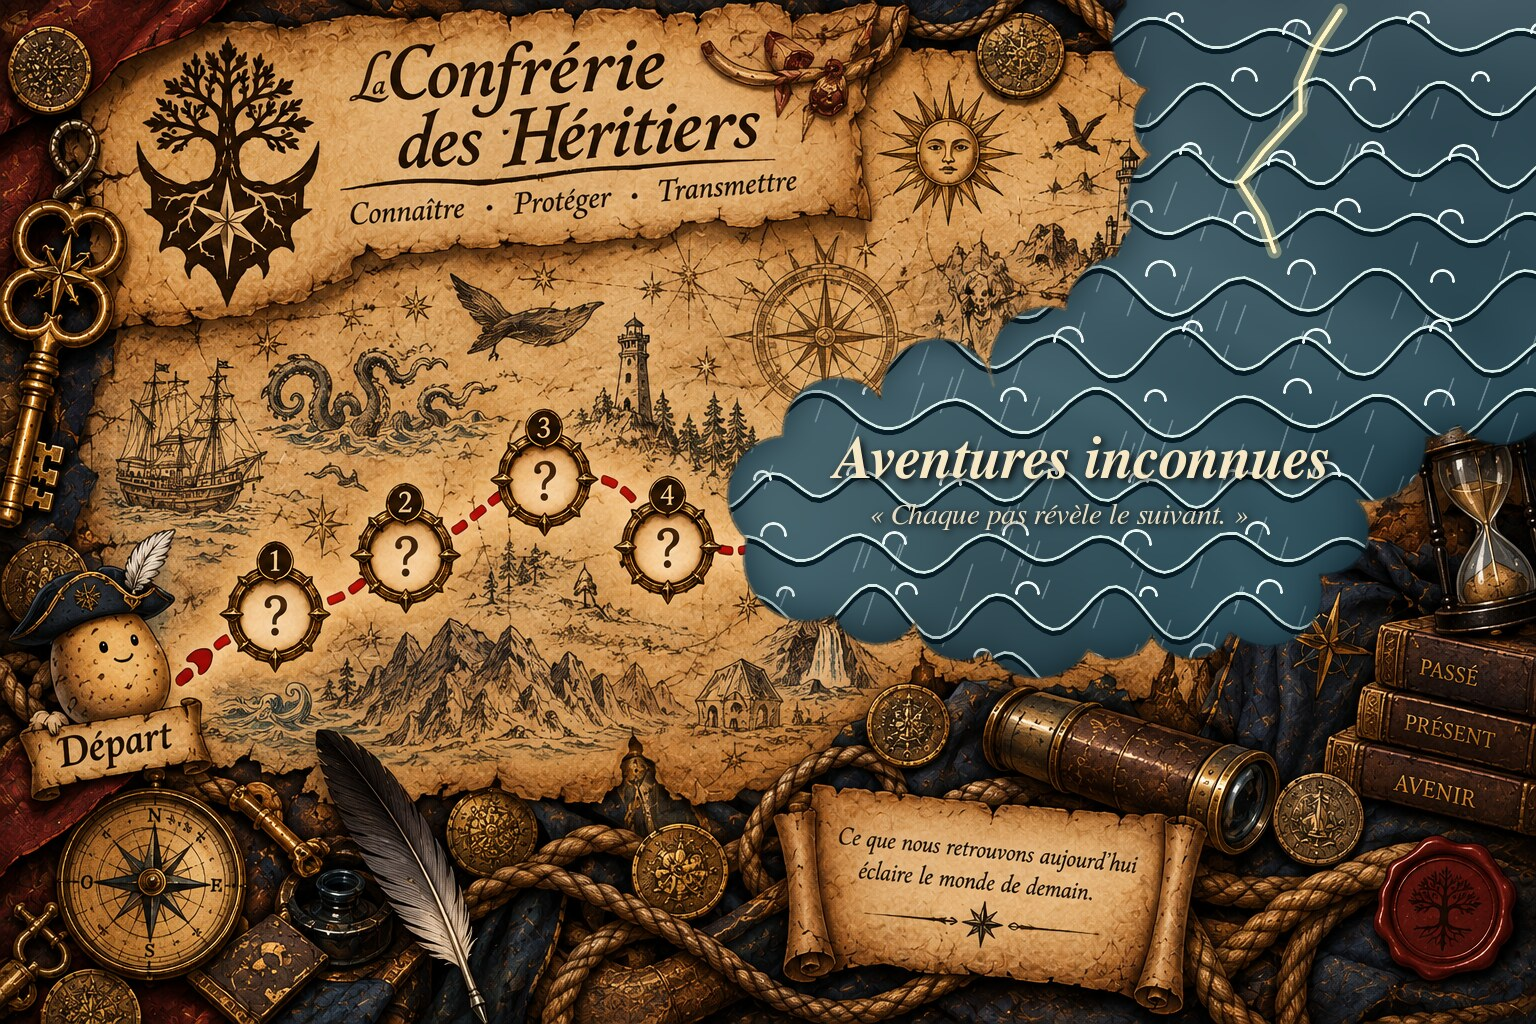
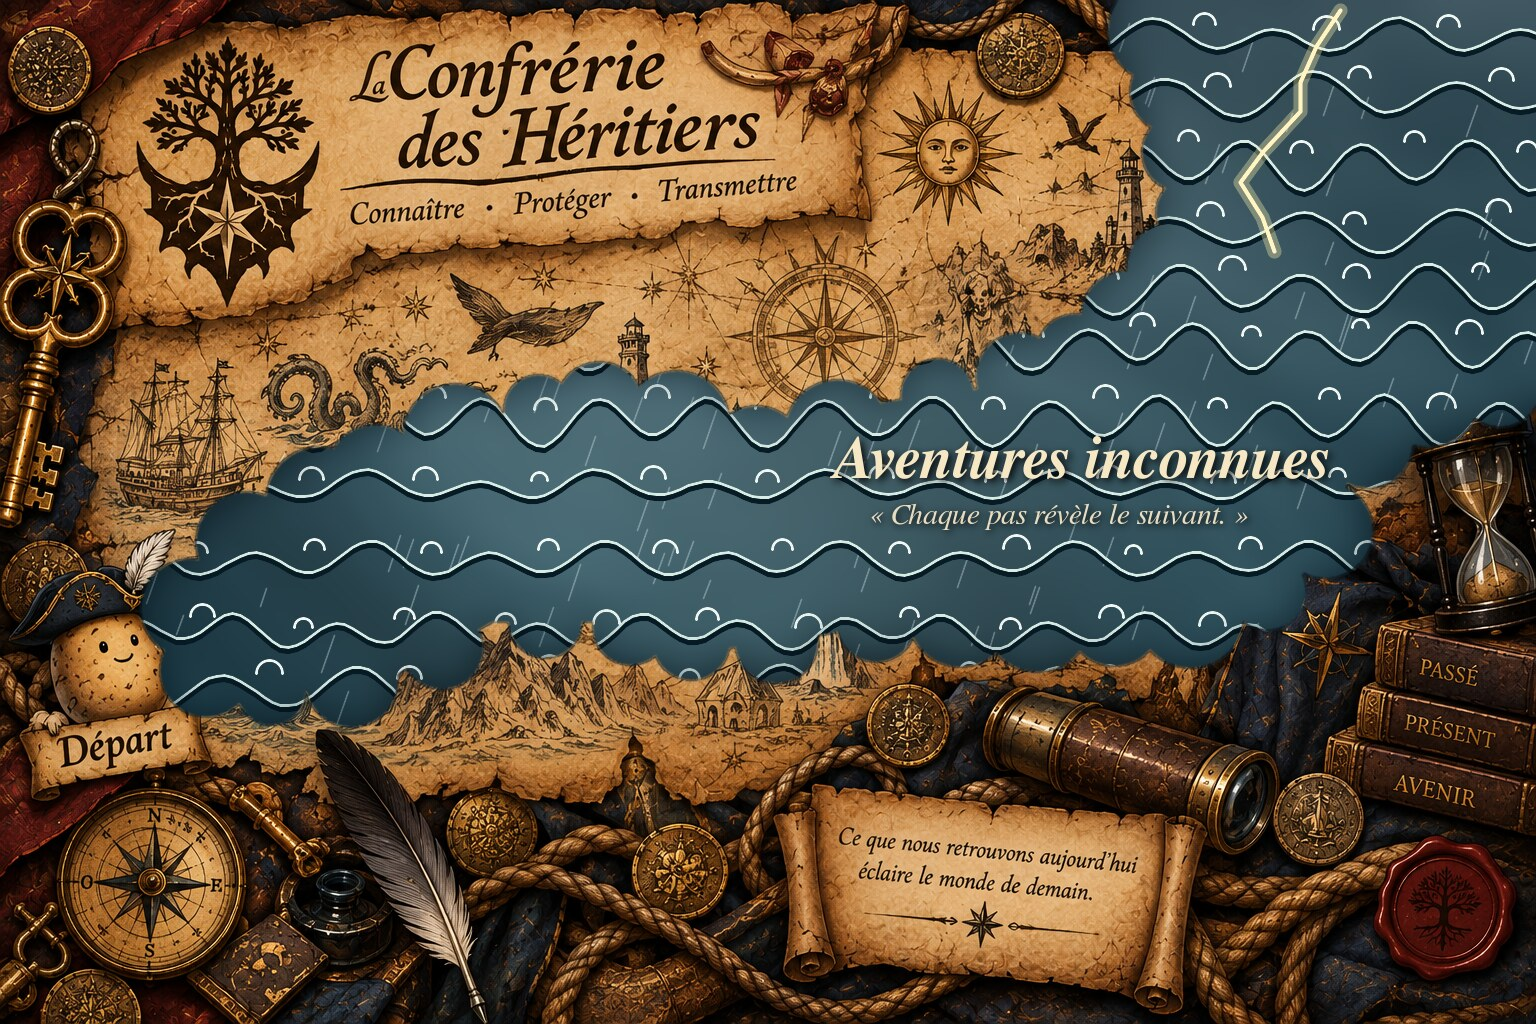
feat(quetes): une grande tempête couvre tout le chemin des quêtes
- la mer en tempête s'étend sur tout le chemin, du départ aux aventures
  inconnues ; les dessins autour restent visibles
- un anneau doré marque chaque quête existante ; le toucher ouvre un
  trou dans la tempête qui dévoile la carte et la quête
- registre : icône d'orage pour les quêtes encore cachées

Claude-Session: https://claude.ai/code/session_01LK9bQxRaFjmebgi5wGVUS1

Changed region(s): [[0.0938, 0.0, 1.0, 0.7188], [0.9062, 0.0, 0.9375, 0.0312], [0.8438, 0.0, 0.875, 0.0312]]

diff --git a/frontend/app/(tabs)/quetes.tsx b/frontend/app/(tabs)/quetes.tsx
@@ -26,12 +26,10 @@ const COMPLETED_QUEST_IMAGE = require('../../quêtes/toutes les quêtes/quête c
 const ANCIENT_MESSAGE_IMAGE = require('../../assets/images/journal/le message des anciens.png');
 const FORGERON_EXPLAINED_IMAGE = require('../../quêtes/toutes les quêtes/La_Forge_des_Anciens.png');
 
-// Emplacement sur la carte du médaillon de la prochaine quête
-const NEXT_QUEST_SPOT = { x: 0.433, y: 0.533 };
 
-// Petit nuage qui cache une quête pas encore dévoilée (240 x 200)
-const COVER_IMAGE = require('../../assets/images/quetes/nuage.png');
-const COVER_ASPECT = 240 / 200;
+// Carte d'origine, sans la tempête : visible à travers la tempête autour
+// des quêtes dévoilées
+const CLEAR_MAP_IMAGE = require('../../quêtes/image de quêtes.png');
 
 // Mémorise sur l'appareil les quêtes déjà dévoilées
 const seenKey = (number: number) => `quetes.vue.${number}`;
@@ -82,76 +80,57 @@ const QUESTS: Quest[] = [
   },
 ];
 
+const MAP_ASPECT = 1536 / 1024;
 const MEDALLION_SIZE = 0.074; // diamètre de l'anneau, en fraction de la largeur de la carte
 const EMBLEM_SIZE = 0.05; // diamètre de l'illustration posée sur le médaillon
 
-// Médaillon « ? » de la prochaine quête : il brille doucement
-function NextQuestMarker({ size, x, y }: { size: number; x: number; y: number }) {
-  const glow = useRef(new Animated.Value(0)).current;
+// Trou dans la tempête autour d'une quête dévoilée : on y revoit la carte
+function StormHole({
+  mapWidth,
+  mapHeight,
+  x,
+  y,
+  size,
+}: {
+  mapWidth: number;
+  mapHeight: number;
+  x: number;
+  y: number;
+  size: number;
+}) {
+  const opacity = useRef(new Animated.Value(0)).current;
 
   useEffect(() => {
-    const loop = Animated.loop(
-      Animated.sequence([
-        Animated.timing(glow, { toValue: 1, duration: 1200, useNativeDriver: true }),
-        Animated.timing(glow, { toValue: 0, duration: 1200, useNativeDriver: true }),
-      ])
-    );
-    loop.start();
-    return () => loop.stop();
-  }, [glow]);
+    Animated.timing(opacity, { toValue: 1, duration: 800, useNativeDriver: true }).start();
+  }, [opacity]);
 
   return (
     <Animated.View
       pointerEvents="none"
-      testID="quest-next-marker"
       style={[
-        styles.ring,
-        styles.nextRing,
+        styles.hole,
         {
           width: size,
           height: size,
           borderRadius: size / 2,
-          left: `${x * 100}%`,
-          top: `${y * 100}%`,
-          opacity: glow.interpolate({ inputRange: [0, 1], outputRange: [0.45, 1] }),
-          transform: [
-            { translateX: -size / 2 },
-            { translateY: -size / 2 },
-            { scale: glow.interpolate({ inputRange: [0, 1], outputRange: [0.92, 1.08] }) },
-          ],
+          left: x * mapWidth - size / 2,
+          top: y * mapHeight - size / 2,
+          opacity,
+          transform: [{ scale: opacity.interpolate({ inputRange: [0, 1], outputRange: [0.3, 1] }) }],
         },
       ]}
-    />
-  );
-}
-
-// Nuage posé sur un médaillon ; il s'envole quand la quête est dévoilée
-function MedallionCover({ size, visible }: { size: number; visible: boolean }) {
-  const opacity = useRef(new Animated.Value(visible ? 1 : 0)).current;
-
-  useEffect(() => {
-    Animated.timing(opacity, {
-      toValue: visible ? 1 : 0,
-      duration: 700,
-      useNativeDriver: true,
-    }).start();
-  }, [visible, opacity]);
-
-  return (
-    <Animated.View
-      pointerEvents="none"
-      style={{
-        position: 'absolute',
-        width: size * COVER_ASPECT,
-        height: size,
-        opacity,
-        transform: [
-          { translateY: opacity.interpolate({ inputRange: [0, 1], outputRange: [-size * 0.6, 0] }) },
-          { scale: opacity.interpolate({ inputRange: [0, 1], outputRange: [1.3, 1] }) },
-        ],
-      }}
     >
-      <Image source={COVER_IMAGE} style={{ width: size * COVER_ASPECT, height: size }} contentFit="contain" />
+      <Image
+        source={CLEAR_MAP_IMAGE}
+        style={{
+          position: 'absolute',
+          width: mapWidth,
+          height: mapHeight,
+          left: -(x * mapWidth - size / 2),
+          top: -(y * mapHeight - size / 2),
+        }}
+        contentFit="cover"
+      />
     </Animated.View>
   );
 }
@@ -208,6 +187,19 @@ export default function QuetesScreen() {
         >
           <Image source={MAIN_QUESTS_IMAGE} style={styles.image} contentFit="contain" />
 
+          {/* Trous dans la tempête autour des quêtes dévoilées */}
+          {mapWidth > 0 &&
+            QUESTS.filter(isRevealed).map((quest) => (
+              <StormHole
+                key={`hole-${quest.number}`}
+                mapWidth={mapWidth}
+                mapHeight={mapWidth / MAP_ASPECT}
+                x={quest.x}
+                y={quest.y}
+                size={ringSize * 1.9}
+              />
+            ))}
+
           {/* Anneau doré sur les médaillons des quêtes disponibles */}
           {mapWidth > 0 &&
             QUESTS.map((quest) => (
@@ -250,30 +242,10 @@ export default function QuetesScreen() {
                     transition={300}
                   />
                 )}
-                <MedallionCover size={ringSize * 1.25} visible={!isRevealed(quest)} />
               </Pressable>
             ))}
 
-          {mapWidth > 0 && (
-            <>
-              <View
-                pointerEvents="none"
-                style={{
-                  position: 'absolute',
-                  alignItems: 'center',
-                  justifyContent: 'center',
-                  width: ringSize,
-                  height: ringSize,
-                  left: `${NEXT_QUEST_SPOT.x * 100}%`,
-                  top: `${NEXT_QUEST_SPOT.y * 100}%`,
-                  transform: [{ translateX: -ringSize / 2 }, { translateY: -ringSize / 2 }],
-                }}
-              >
-                <MedallionCover size={ringSize * 1.25} visible />
-              </View>
-              <NextQuestMarker size={ringSize} x={NEXT_QUEST_SPOT.x} y={NEXT_QUEST_SPOT.y} />
-            </>
-          )}
+
         </View>
 
         {/* Registre des quêtes, lisible sur mobile */}
@@ -293,7 +265,9 @@ export default function QuetesScreen() {
               style={({ pressed }) => [styles.row, pressed && { opacity: 0.8 }]}
             >
               {!isRevealed(quest) ? (
-                <Image source={COVER_IMAGE} style={styles.rowEmblem} contentFit="contain" />
+                <View style={[styles.badge, styles.badgeStorm]}>
+                  <MaterialCommunityIcons name="weather-lightning-rainy" size={22} color="#cfe6ee" />
+                </View>
               ) : (
                 <View>
                   <Image source={quest.emblem} style={styles.rowEmblem} contentFit="cover" />
@@ -380,11 +354,6 @@ const styles = StyleSheet.create({
     width: '100%',
     height: '100%',
     borderRadius: 20,
-  },
-  nextRing: {
-    borderColor: '#FFE3A0',
-    backgroundColor: 'rgba(255, 227, 160, 0.18)',
-    shadowRadius: 12,
   },
   ring: {
     position: 'absolute',
@@ -479,6 +448,16 @@ const styles = StyleSheet.create({
     backgroundColor: '#2C221C',
     borderWidth: 2,
     borderColor: colors.brandPrimary,
+  },
+  badgeStorm: {
+    backgroundColor: '#24414d',
+    borderColor: '#6f95a3',
+  },
+  hole: {
+    position: 'absolute',
+    overflow: 'hidden',
+    borderWidth: 2,
+    borderColor: 'rgba(8, 28, 38, 0.8)',
   },
   badgeLocked: {
     backgroundColor: '#E2CFA6',
